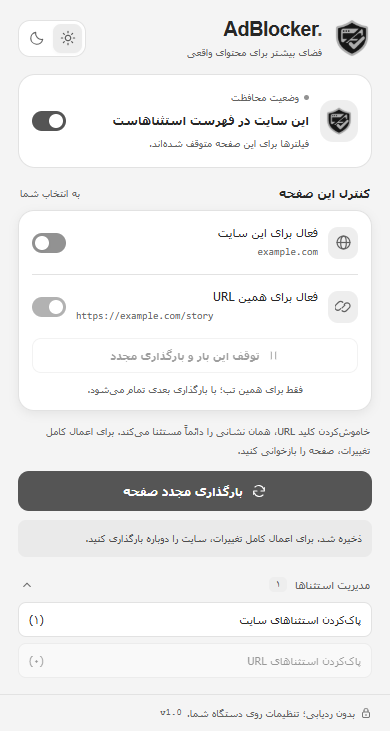
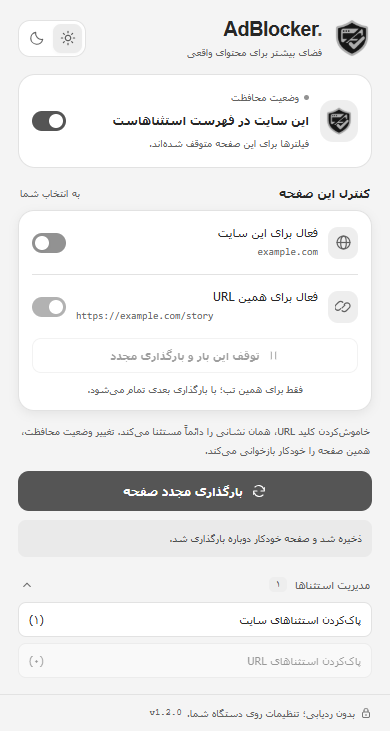
release: prepare v1.2.0 with safer settings and automatic reload

diff --git a/extension/popup.js b/extension/popup.js
@@ -7,10 +7,23 @@ let url;
 let paused = false;
 let busy = false;
 
+function protectionOn() {
+  return settings.enabled && !(host && AdBlockSettings.isAllowed(host, settings.allowedSites)) &&
+    !settings.allowedUrls.includes(url) && !paused;
+}
+
+async function reloadCurrentPage() {
+  if (!url || !Number.isInteger(tab?.id)) return false;
+  const current = await api.tabs.get(tab.id);
+  if (AdBlockSettings.pageUrl(current.url) !== url) return false;
+  await api.tabs.reload(tab.id);
+  return true;
+}
+
 function render() {
   const allowed = host && AdBlockSettings.isAllowed(host, settings.allowedSites);
   const urlAllowed = settings.allowedUrls.includes(url);
-  const on = settings.enabled && !allowed && !urlAllowed && !paused;
+  const on = protectionOn();
   $('enabled').checked = settings.enabled;
   $('enabled').disabled = busy;
   $('siteEnabled').checked = !allowed;
@@ -42,6 +55,7 @@ async function send(message) {
 }
 
 async function change(message) {
+  const wasOn = protectionOn();
   busy = true;
   $('message').textContent = '';
   render();
@@ -49,9 +63,10 @@ async function change(message) {
     const result = await send(message);
     settings = AdBlockSettings.normalize(result.settings);
     if (typeof result.paused === 'boolean') paused = result.paused;
+    const reloaded = message.type !== 'setPause' && wasOn !== protectionOn() ? await reloadCurrentPage() : false;
     $('message').textContent = message.type === 'setPause' ?
       (paused ? 'توقف یکباره فعال شد. بارگذاری بعدی یا خروج از صفحه آن را پایان میدهد.' : 'مسدودسازی دوباره فعال شد.') :
-      'ذخیره شد. برای اعمال کامل تغییرات، سایت را دوباره بارگذاری کنید.';
+      reloaded ? 'ذخیره شد و صفحه خودکار دوباره بارگذاری شد.' : 'تنظیمات ذخیره شد.';
   } catch (error) { $('message').textContent = error.message; }
   finally { busy = false; render(); }
 }
@@ -63,12 +78,16 @@ $('urlEnabled').addEventListener('change', () => change({ type: 'setUrl', url, a
 $('clearUrls').addEventListener('click', () => change({ type: 'clearUrls' }));
 $('pause').addEventListener('click', () => change({ type: 'setPause', tabId: tab.id, url, paused: !paused }));
 $('reload').addEventListener('click', async () => {
-  try { await api.tabs.reload(tab.id); window.close(); }
+  try {
+    if (await reloadCurrentPage()) window.close();
+    else $('message').textContent = 'صفحه عوض شده است؛ پنجرهٔ افزونه را دوباره باز کنید.';
+  }
   catch (error) { $('message').textContent = error.message; }
 });
 
 (async () => {
   try {
+    $('version').textContent = `v${api.runtime.getManifest().version}`;
     [tab] = await api.tabs.query({ active: true, currentWindow: true });
     host = tab?.url && /^https?:/.test(tab.url) ? AdBlockSettings.hostname(tab.url) : null;
     url = AdBlockSettings.pageUrl(tab?.url);

diff --git a/extension/background.js b/extension/background.js
@@ -60,8 +60,14 @@ function enqueue(task) {
 async function broadcast(settings) {
   const tabs = await api.tabs.query({});
   await Promise.all(tabs.filter(tab => tab.id !== undefined).map(tab =>
-    api.tabs.sendMessage(tab.id, { type: 'settingsChanged', settings: forTab(settings, tab) }).catch(() => {})
+    api.tabs.sendMessage(tab.id, { type: 'settingsChanged', settings: forContent(settings, tab) }).catch(() => {})
   ));
+}
+
+// Page scripts need only their effective state, never another site's exceptions
+// or saved URLs, which may include private query parameters.
+function forContent(settings, tab) {
+  return { enabled: forTab(settings, tab).enabled };
 }
 
 function forTab(settings, tab) {
@@ -77,7 +83,7 @@ async function handle(message, sender) {
   if (message.type === 'getSettings') {
     const fromPage = sender.url?.startsWith(api.runtime.getURL(''));
     const tab = fromPage ? (Number.isInteger(message.tabId) ? await api.tabs.get(message.tabId) : null) : sender.tab;
-    return { settings: !fromPage && tab ? forTab(settings, tab) : settings,
+    return { settings: fromPage ? settings : forContent(settings, tab),
       paused: Boolean(tab && pausedTabs[tab.id]?.url === pageUrl(tab.url)) };
   }
   if (message.type === 'setPause' && Number.isInteger(message.tabId) && typeof message.paused === 'boolean') {
@@ -127,8 +133,15 @@ async function handle(message, sender) {
     throw new Error('درخواست نامعتبر است.');
   }
   // Apply network policy first; a failed API call must be visible to the UI.
-  await sync(next);
-  await api.storage.local.set({ settings: next });
+  try {
+    await sync(next);
+    await api.storage.local.set({ settings: next });
+  } catch (error) {
+    // Undo a partial network update or failed settings write before reporting it.
+    try { await sync(settings); }
+    catch { console.error('AdBlocker: could not restore the previous network policy'); }
+    throw error;
+  }
   await broadcast(next);
   return { settings: next };
 }
@@ -173,6 +186,9 @@ api.tabs.onRemoved.addListener(tabId => { enqueue(async () => {
 }); });
 
 enqueue(async () => {
+  if (api.storage.local.setAccessLevel) {
+    await api.storage.local.setAccessLevel({ accessLevel: 'TRUSTED_CONTEXTS' });
+  }
   const saved = (await api.storage.session.get('pausedTabs')).pausedTabs || {};
   for (const tab of await api.tabs.query({})) {
     const pause = saved[tab.id];

diff --git a/extension/popup.html b/extension/popup.html
@@ -40,12 +40,12 @@
       <label class="scope-row" for="urlEnabled"><span class="scope-icon"><svg aria-hidden="true"><use href="#link"/></svg></span><span class="scope-copy"><span class="scope-title">فعال برای همین URL</span><b id="url" class="url" dir="ltr">—</b></span><input id="urlEnabled" type="checkbox" role="switch" disabled></label>
       <div class="page-actions"><button id="pause" class="pause-button" disabled><svg aria-hidden="true"><use href="#pause-icon"/></svg><span id="pauseLabel">توقف این بار و بارگذاری مجدد</span></button><p>فقط برای همین تب؛ با بارگذاری بعدی تمام میشود.</p></div>
     </section>
-    <p class="hint">خاموشکردن کلید URL، همان نشانی را دائماً مستثنا میکند. برای اعمال کامل تغییرات، صفحه را بازخوانی کنید.</p>
+    <p class="hint">خاموشکردن کلید URL، همان نشانی را دائماً مستثنا میکند. تغییر وضعیت محافظت، همین صفحه را خودکار بازخوانی میکند.</p>
     <button id="reload" class="primary" disabled><svg aria-hidden="true"><use href="#refresh"/></svg>بارگذاری مجدد صفحه</button>
     <p id="message" role="status" aria-live="polite"></p>
     <details class="exceptions" id="exceptions"><summary><span>مدیریت استثناها</span><span class="count-chip" id="totalCount">۰</span><svg aria-hidden="true"><use href="#chevron"/></svg></summary><div class="exception-actions"><button id="clear" disabled>پاککردن استثناهای سایت <span id="count">(۰)</span></button><button id="clearUrls" disabled>پاککردن استثناهای URL <span id="urlCount">(۰)</span></button></div></details>
   </main>
-  <footer><svg aria-hidden="true"><use href="#lock"/></svg><span>بدون ردیابی؛ تنظیمات روی دستگاه شما.</span><span class="version" dir="ltr">v1.0</span></footer>
+  <footer><svg aria-hidden="true"><use href="#lock"/></svg><span>بدون ردیابی؛ تنظیمات روی دستگاه شما.</span><span id="version" class="version" dir="ltr"></span></footer>
   <script src="settings.js"></script><script src="popup.js"></script>
 </body>
 </html>

diff --git a/docs/SECURITY-REVIEW.md b/docs/SECURITY-REVIEW.md
@@ -1,0 +1,35 @@
+# Version 1.2.0 security and coverage review
+
+Reviewed on 2026-10-27. This is a source review with automated regression and browser checks, not an independent penetration test or a guarantee that no vulnerabilities exist. The extension has no runtime dependencies or remote executable code.
+
+## Security controls checked
+
+- Only messages from this extension's own pages may change settings. Content scripts and foreign extension IDs are rejected for privileged commands.
+- Page messages and broadcasts contain only the effective protection state, excluding saved sites and URLs with potentially sensitive query parameters. Chromium local storage is restricted to trusted extension contexts; Firefox retains its isolated content-script model.
+- Failed settings writes trigger restoration of the previous network policy. A failed restoration is logged and is not reported as success.
+- Extension-page CSP permits local scripts and denies inline scripts, embedded objects, foreign base URLs, network connections, frames, and form submissions. Real-browser probes confirmed rejection of inline script execution and a foreign base URL.
+- Automatic reload checks the current tab URL first. Regression tests cover exactly one reload, existing background-owned pause reloads, and refusal to reload a different page after navigation.
+- Settings remain local; the logo is bundled. No new browser permission was added.
+
+## Recorded checks
+
+- 16 unit tests and four distribution/ZIP tests passed.
+- DOM tests passed for gray states, logo transparency, theme persistence, automatic reloads, and stale-page handling.
+- Actual Edge extension tests passed for 149 blocked domains, 20 useful allowed hosts, CSP enforcement, exceptions, and automatic page reload.
+- `npm audit` reported zero known advisories for the locked development dependencies. CI now runs `npm audit --audit-level=low`.
+- Mozilla web-ext validation reported zero errors, warnings, and notices. Firefox runtime was not tested.
+- CI status for the published release commit is linked in the [release notes](https://github.com/salehghotbani/AdBlocker/releases/tag/v1.2.0).
+
+Private vulnerability reporting is enabled in the repository's Security section. Report sensitive findings privately.
+
+## Coverage improvement
+
+Four dedicated ad/analytics hosts were added without blocking their general-purpose parent domains. Browser fixtures verify that the parent websites remain reachable.
+
+| Added hosts | Primary evidence |
+| --- | --- |
+| `static.hotjar.com` | [Hotjar's own tracking-code implementation](https://github.com/hotjar/hotjar-js/blob/main/src/utils.ts) |
+| `bat.bing.com` | [Microsoft UET documentation](https://github.com/MicrosoftDocs/Advertising/blob/main/advertising/msa-help/hlp_BA_CONC_UET_FAQ_2.md) |
+| `api.segment.io`, `cdn.segment.com` | [Twilio Segment's SDK and collection endpoints](https://segment.com/blog/twilio-segment-edge-sdk/) |
+
+The live Turtlecute result remains 95% (126/132). That test does not exercise every new host. One timeout contributes to the site's score; browser events independently recorded 123 client-blocked network requests, plus two successful cosmetic checks. This is a measured result for one setup, not a universal protection percentage. Functional careers, management, business API, and routing endpoints remain allowed.

diff --git a/PRIVACY.md b/PRIVACY.md
@@ -2,7 +2,7 @@
 
 **فارسی** | [English](PRIVACY.en.md)
 
-این توضیحات مربوط به نسخهٔ ۱.۱.۰ افزونهٔ AdBlocker است.
+این توضیحات مربوط به نسخهٔ ۱.۲.۰ افزونهٔ AdBlocker است.
 
 - افزونه تاریخچه، متن صفحات، اطلاعات ورود یا محتوای فرمها را جمعآوری یا ارسال نمیکند. نشانیهای بازدیدشده خودکار ذخیره نمیشوند؛ فقط URLهایی که خودتان صریحاً استثنای دائمی میکنید ذخیره میشوند.
 - وضعیت روشن/خاموش، رنگبندی روز/شب، نام سایتهای استثنا و URLهای انتخابشدهٔ شما با مسیر و query در `storage.local` همان مرورگر ذخیره میشوند. این تنظیمات به فضای ابری همگامسازی نمیشوند؛ URL انتخابشده ممکن است پارامتر حساس داشته باشد.
@@ -11,6 +11,8 @@
 - اسکریپت محلی افزونه عناصر دارای نشانههای مشخص تبلیغاتی را بررسی میکند تا همان عناصر را پنهان کند. این بررسی داخل مرورگر انجام میشود؛ محتوای صفحه جمعآوری نمیشود.
 - قواعد شبکهٔ محلی با API مرورگر اعمال میشوند. فهرست قواعد از سرور خارجی دریافت نمیشود و هیچ کد اجرایی از راه دور بارگیری نمیشود.
 - هیچ تحلیلگر، تلهمتری یا SDK تبلیغاتی در افزونه وجود ندارد. وابستگی Playwright فقط ابزار تست توسعه است و در بستههای نصب قرار نمیگیرد.
+- پیامهای ارسالی به اسکریپت صفحات فقط وضعیت مؤثر محافظت همان تب را دارند؛ فهرست سایتها و URLهای مستثنا در این پیامها ارسال نمیشود. در Chromium، دسترسی مستقیم اسکریپت صفحات به `storage.local` نیز محدود میشود.
+- تغییر وضعیت محافظت، همان صفحهٔ جاری را خودکار بازخوانی میکند؛ پیش از بازخوانی، نشانی تب بررسی میشود تا صفحهٔ دیگری بازخوانی نشود.
 
 ## مجوزها
 

diff --git a/docs/TESTING.md b/docs/TESTING.md
@@ -1,6 +1,14 @@
-# گزارش بررسی نسخهٔ ۱.۱.۰
+# گزارش بررسی نسخهٔ ۱.۲.۰
 
 **فارسی** | [English](TESTING.en.md)
+
+## بررسی نسخهٔ ۱.۲.۰ — ۲۰۲۶/۱۰/۲۷
+
+- ۱۶ تست واحد، چهار تست خروجی/ZIP، تست DOM و اجرای واقعی افزونه در Edge موفق بودند؛ ۱۴۹ دامنه مسدود و ۲۰ میزبان کاربردی باز ماندند.
+- بازخوانی خودکار فقط یک بار، حفظ حالت خاکستری، نمایش نسخهٔ واقعی و جلوگیری از بازخوانی صفحهٔ دیگری پس از تغییر نشانی بررسی شد.
+- تستهای رد پیام غیرمجاز، محدودشدن اطلاعات پیام صفحات، بازگردانی قواعد پس از خطای ذخیره و اجرای واقعی CSP موفق بودند. `npm audit` آسیبپذیری شناختهشدهای گزارش نکرد و اعتبارسنجی Firefox بدون خطا و هشدار بود.
+- آزمون آنلاین دوباره اجرا شد: **۹۵٪؛ ۱۲۶ از ۱۳۲** و ۱۲۳ درخواست با خطای صریح مسدودسازی کلاینت. یک میزبان نیز توسط سایت بهعلت timeout مسدود شمرده شد. چهار میزبان جدید خارج از فهرست این آزموناند؛ افزایش پوشش به معنی افزایش تضمینی درصد همهٔ سایتها نیست.
+- [دامنهٔ بررسی امنیتی و منابع قواعد جدید](SECURITY-REVIEW.md). وضعیت CI commit انتشار در [توضیحات Release](https://github.com/salehghotbani/AdBlocker/releases/tag/v1.2.0) ثبت میشود.
 
 ## تغییرات رابط پس از نسخهٔ ۱.۱.۰ — ۲۰۲۶/۱۰/۲۷
 

diff --git a/PRIVACY.en.md b/PRIVACY.en.md
@@ -2,7 +2,7 @@
 
 [فارسی](PRIVACY.md) | **English**
 
-This policy describes version 1.1.0 of the AdBlocker extension.
+This policy describes version 1.2.0 of the AdBlocker extension.
 
 - The extension does not collect or transmit browsing history, page text, sign-in details, or form contents. Visited URLs are not automatically stored; only URLs explicitly selected as permanent exceptions are saved.
 - The enabled/disabled setting, light/dark theme preference, excluded site names, and user-selected URLs including paths and query strings are saved in that browser's `storage.local`. These settings are not synchronized to the cloud. Selected URLs may contain sensitive parameters.
@@ -11,6 +11,8 @@ This policy describes version 1.1.0 of the AdBlocker extension.
 - A local content script examines elements with specific advertising markers to hide those elements. Processing takes place inside the browser; page content is not collected.
 - Local network rules are applied through the browser API. The filter list is not downloaded from an external server, and no remote executable code is loaded.
 - The extension contains no analytics, telemetry, or advertising SDK. Playwright is a development test tool and is not included in installation packages.
+- Messages sent to content scripts contain only that tab's effective protection state, not the saved site or URL exceptions. Chromium also restricts direct content-script access to `storage.local`.
+- Protection changes automatically reload the current page. The tab's URL is checked first so a different page is not reloaded.
 
 ## Permissions
 

diff --git a/CHANGELOG.md b/CHANGELOG.md
@@ -2,11 +2,16 @@
 
 **فارسی** | [English](CHANGELOG.en.md)
 
-## منتشرنشده
+## 1.2.0 — ۲۰۲۶/۱۰/۲۷
 
 - لوگوی جدید و یکسان در پنجرهٔ افزونه و آیکون مرورگر، با نسخههای PNG شفاف در چهار اندازه.
 - ظاهر خاکستری برای سایت/URL مستثنا، توقف موقت و خاموشکردن کلی، در هر دو حالت روز و شب؛ بازگشت رنگها پس از فعالسازی.
 - تست شفافیت و بستهبندی لوگو، حفظ انتخاب روز/شب و حالت خاکستری پس از بازکردن دوبارهٔ پنجره.
+- افزایش پوشش از ۱۴۵ به ۱۴۹ میزبان با اضافهکردن میزبانهای مستند Hotjar، Microsoft UET و Segment.
+- بازخوانی خودکار صفحهٔ جاری پس از تغییر محافظت؛ جلوگیری از بازخوانی دوبارهٔ توقف موقت یا صفحهای که نشانیاش عوض شده است.
+- محدودکردن پیام اسکریپت صفحات به وضعیت محافظت، محدودیت دسترسی به ذخیرهسازی در Chromium و بازگردانی قواعد پس از خطای ذخیره.
+- سیاست صریح CSP برای منع اسکریپت درونخطی، اتصال شبکه و محتوای فعال در صفحههای افزونه؛ بررسی آسیبپذیری وابستگیها در CI.
+- نمایش شمارهٔ نسخهٔ واقعی افزونه در پنجره.
 
 ## 1.1.0 — ۲۰۲۶/۱۰/۲۷
 

diff --git a/README.md b/README.md
@@ -8,10 +8,11 @@
 
 ## امکانات
 
-- مسدودسازی ۱۴۵ دامنهٔ تبلیغاتی و ردیابی و اسکریپتهای تبلیغاتی مشخص.
+- مسدودسازی ۱۴۹ دامنهٔ تبلیغاتی و ردیابی و اسکریپتهای تبلیغاتی مشخص.
 - پنهانسازی جایگاههای تبلیغ ثابت و پویا، با حفظ فرمها و پخشکنندهها.
 - روشن/خاموشکردن، استثنای سایت یا URL، توقف یکبارهٔ صفحه و حالت روز/شب.
 - نمایش خاکستری رابط هنگام توقف محافظت روی سایت یا صفحه، با حفظ انتخاب روز/شب.
+- بازخوانی خودکار همین صفحه پس از تغییر وضعیت محافظت؛ بدون نیاز به تأیید دوباره.
 
 | حالت روز | حالت شب |
 | --- | --- |
@@ -60,3 +61,5 @@ npm run package
 [MIT](LICENSE) — © 2026 Saleh Ghotbani. استفاده، تغییر و بازتوزیع با حفظ اعلان حق مؤلف و متن لایسنس مجاز است؛ نرمافزار بدون ضمانت ارائه میشود. [ترجمهٔ فارسی](LICENSE.fa.md)
 
 [حریم خصوصی](PRIVACY.md) · [تغییرات](CHANGELOG.md) · [گزارش امنیتی](SECURITY.md)
+
+[دامنه و نتایج بررسی امنیتی نسخهٔ ۱.۲.۰](docs/SECURITY-REVIEW.md)

diff --git a/docs/TESTING.en.md b/docs/TESTING.en.md
@@ -1,6 +1,14 @@
-# Version 1.1.0 validation report
+# Version 1.2.0 validation report
 
 [فارسی](TESTING.md) | **English**
+
+## Version 1.2.0 validation — 2026-10-27
+
+- 16 unit tests, four distribution/ZIP tests, DOM checks, and actual Edge extension tests passed: 149 domains blocked and 20 useful hosts allowed.
+- Exactly-once automatic reload, gray-state behavior, the actual version label, and refusal to reload another page after navigation were checked.
+- Unauthorized-message rejection, minimized page messages, rollback after a failed save, and real CSP probes passed. `npm audit` reported no known advisories; Firefox validation reported zero errors or warnings.
+- The live benchmark was rerun: **95%, 126/132**, with 123 explicit client-blocked requests. The site counted one additional host timeout as blocked. The four new hosts are outside this test's host list; broader coverage does not imply a guaranteed higher percentage on every site.
+- See the [security-review scope and rule sources](SECURITY-REVIEW.md). CI status for the release commit is recorded in the [release notes](https://github.com/salehghotbani/AdBlocker/releases/tag/v1.2.0).
 
 ## Interface changes after version 1.1.0 — 2026-10-27
 

diff --git a/README.en.md b/README.en.md
@@ -8,10 +8,11 @@ An ad and tracker blocker for Chrome, Edge, and Firefox, with a Persian interfac
 
 ## Features
 
-- Blocks 145 advertising and tracking domains and specific ad-script paths.
+- Blocks 149 advertising and tracking domains and specific ad-script paths.
 - Hides static and dynamic ad placements while protecting forms and media players.
 - Global toggle, site and exact-URL exceptions, one-time page pauses, and light/dark themes.
 - Grayscale interface when protection is off for the site or page, preserving the light/dark preference.
+- Automatically reloads the current page after a protection change, without another confirmation.
 
 | Light | Dark |
 | --- | --- |
@@ -60,3 +61,5 @@ Browser folders are generated in `dist/chrome`, `dist/edge`, and `dist/firefox`;
 [MIT](LICENSE) — © 2026 Saleh Ghotbani. Use, modification, and redistribution are permitted when retaining the copyright and license notice. Provided without warranty. [Persian translation](LICENSE.fa.md)
 
 [Privacy](PRIVACY.en.md) · [Changelog](CHANGELOG.en.md) · [Security](SECURITY.en.md)
+
+[Version 1.2.0 security review scope and results](docs/SECURITY-REVIEW.md)

diff --git a/CHANGELOG.en.md b/CHANGELOG.en.md
@@ -2,11 +2,16 @@
 
 [فارسی](CHANGELOG.md) | **English**
 
-## Unreleased
+## 1.2.0 — 2026-10-27
 
 - New shared popup and browser logo with transparent PNG icons in four sizes.
 - Grayscale site/URL exceptions, one-time pauses, and global-off states in both light and dark mode; color returns when protection resumes.
 - Logo transparency/packaging checks and tests for gray state on reopening and preservation of the light/dark preference.
+- Expand coverage from 145 to 149 hosts using documented Hotjar, Microsoft UET, and Segment endpoints.
+- Reload the current page automatically after protection changes; avoid duplicate pause reloads and stale-page reloads.
+- Limit page messages to effective protection state, restrict Chromium local-storage access, and restore network policy after a failed save.
+- Explicit CSP blocks inline scripts, network connections, and active embedded content in extension pages; CI checks dependency advisories.
+- Show the actual manifest version in the popup.
 
 ## 1.1.0 — 2026-10-27
 
